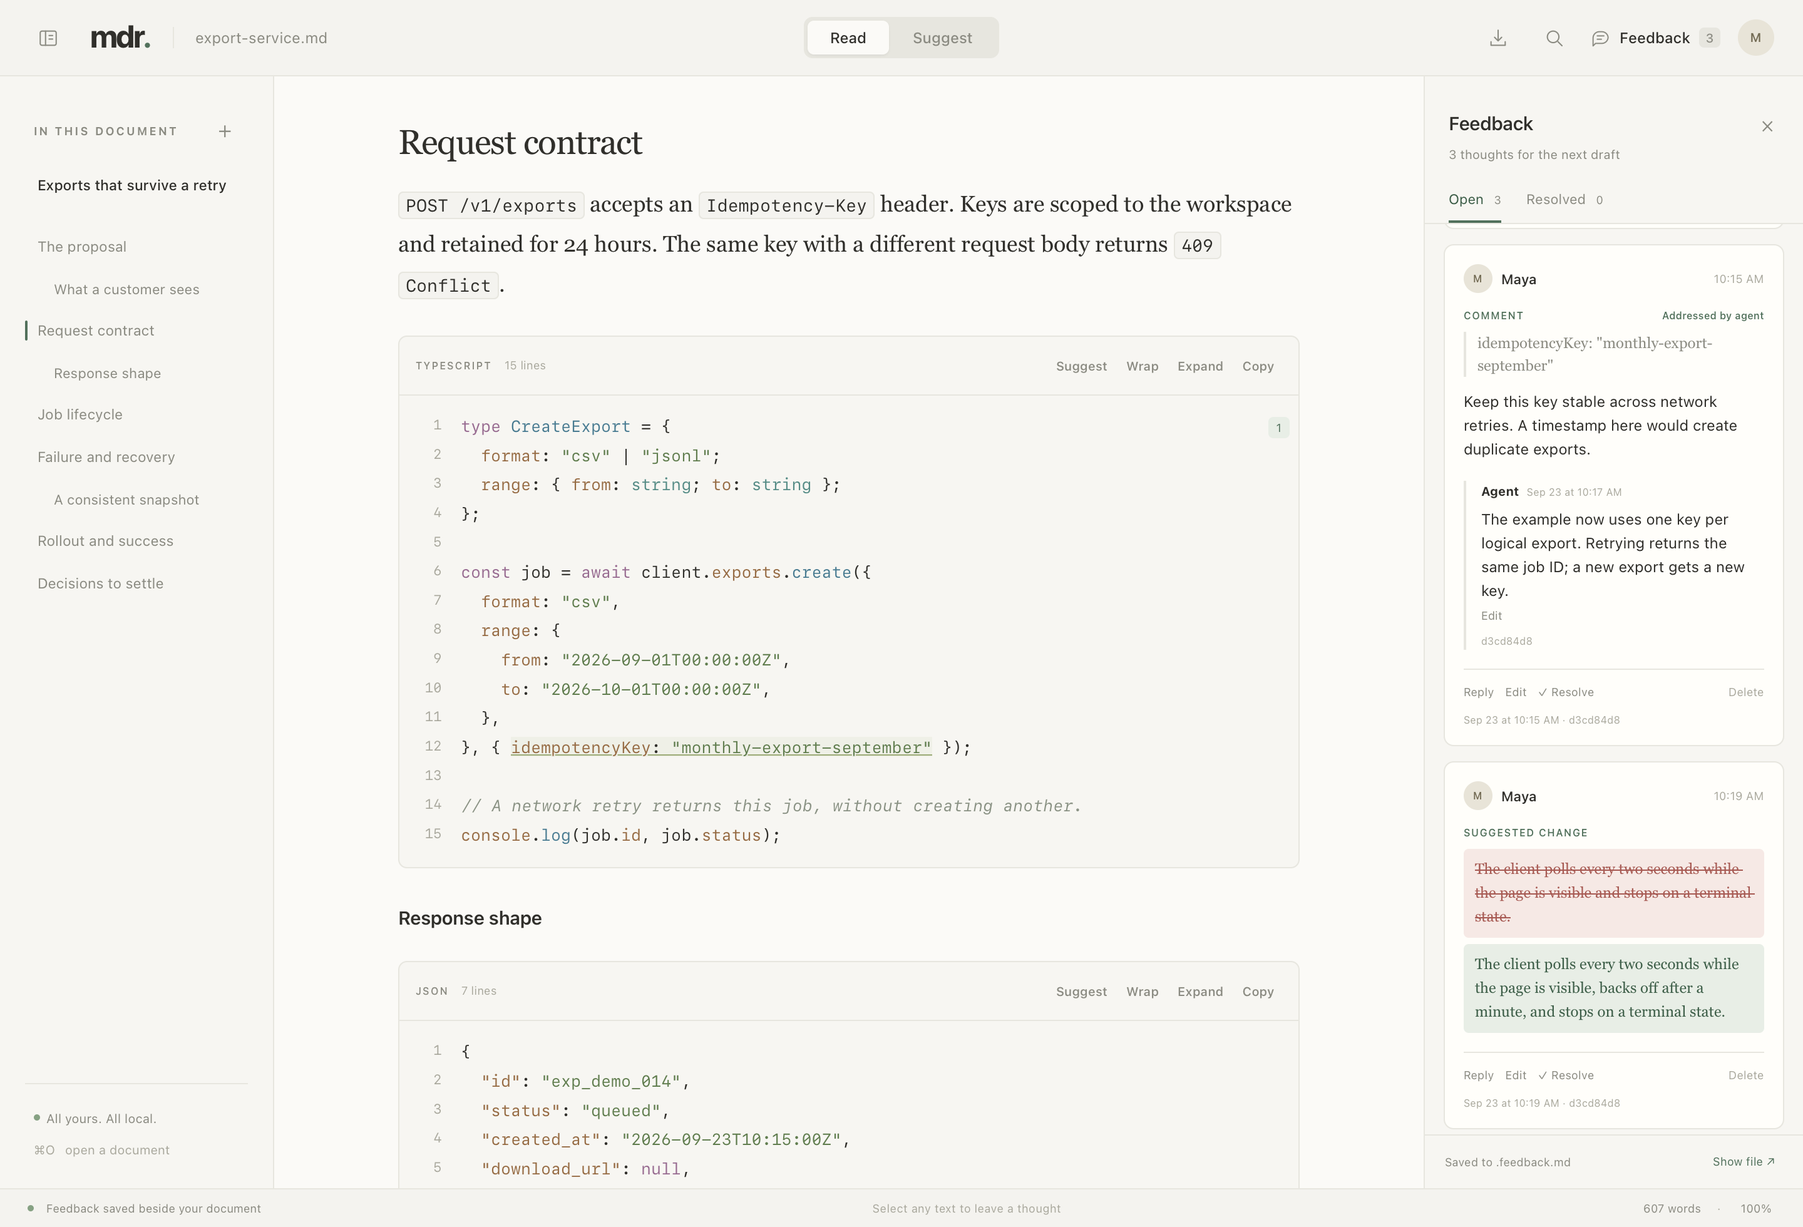
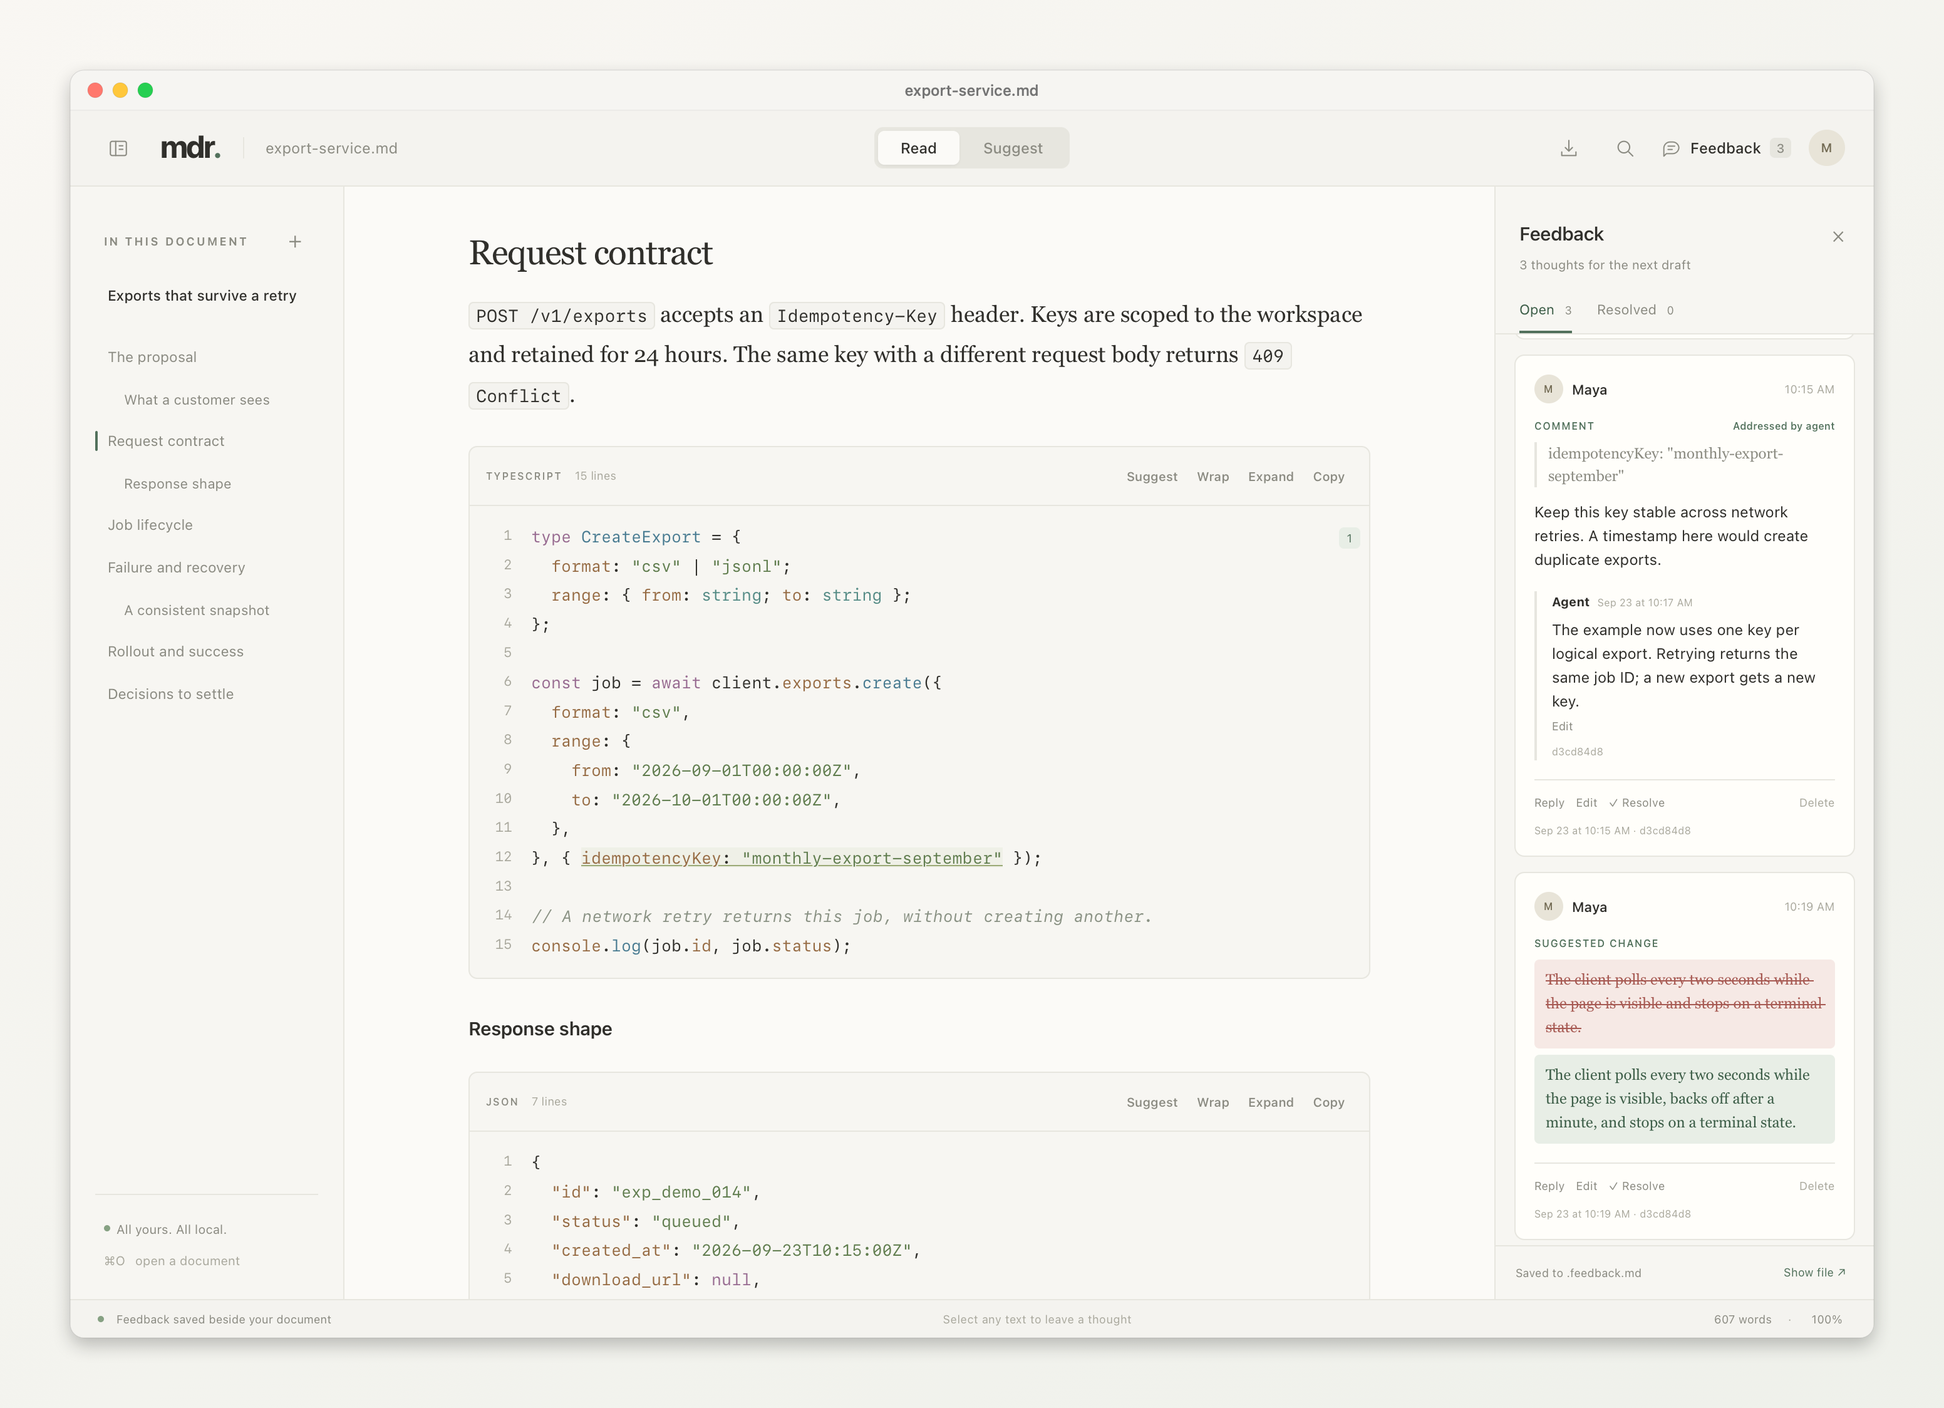
Show document dates and give the demo a Mac window presentation

diff --git a/scripts/frame-screenshot.swift b/scripts/frame-screenshot.swift
@@ -1,0 +1,50 @@
+import AppKit
+
+// Frame an actual native-reader capture for the README without capturing a desktop.
+guard CommandLine.arguments.count == 4,
+      let image = NSImage(contentsOfFile: CommandLine.arguments[1]) else {
+    fatalError("Usage: frame-screenshot.swift INPUT.png OUTPUT.png WINDOW_TITLE")
+}
+let contentWidth: CGFloat = 1440
+let contentHeight = contentWidth * image.size.height / image.size.width
+let inset: CGFloat = 56, titleHeight: CGFloat = 32, scale: CGFloat = 2
+let size = NSSize(width: contentWidth + inset * 2, height: contentHeight + titleHeight + inset * 2)
+let colorSpace = CGColorSpace(name: CGColorSpace.sRGB)!
+let context = CGContext(data: nil, width: Int(size.width * scale), height: Int(size.height * scale),
+    bitsPerComponent: 8, bytesPerRow: 0, space: colorSpace,
+    bitmapInfo: CGImageAlphaInfo.premultipliedLast.rawValue)!
+context.scaleBy(x: scale, y: scale)
+NSGraphicsContext.saveGraphicsState()
+NSGraphicsContext.current = NSGraphicsContext(cgContext: context, flipped: false)
+let canvas = NSRect(origin: .zero, size: size)
+NSGradient(starting: NSColor(calibratedRed: 0.92, green: 0.93, blue: 0.90, alpha: 1),
+           ending: NSColor(calibratedRed: 0.97, green: 0.96, blue: 0.94, alpha: 1))!.draw(in: canvas, angle: 120)
+let frame = NSRect(x: inset, y: inset, width: contentWidth, height: contentHeight + titleHeight)
+let outline = NSBezierPath(roundedRect: frame, xRadius: 11, yRadius: 11)
+NSGraphicsContext.saveGraphicsState()
+let shadow = NSShadow(); shadow.shadowColor = NSColor.black.withAlphaComponent(0.24)
+shadow.shadowOffset = NSSize(width: 0, height: -12); shadow.shadowBlurRadius = 30; shadow.set()
+NSColor(calibratedWhite: 0.97, alpha: 1).setFill(); outline.fill()
+NSGraphicsContext.restoreGraphicsState()
+NSGraphicsContext.saveGraphicsState()
+outline.addClip()
+NSColor(calibratedRed: 0.955, green: 0.953, blue: 0.937, alpha: 1).setFill(); outline.fill()
+image.draw(in: NSRect(x: inset, y: inset, width: contentWidth, height: contentHeight))
+let titleY = inset + contentHeight
+NSColor.black.withAlphaComponent(0.07).setStroke()
+let divider = NSBezierPath(); divider.move(to: NSPoint(x: inset, y: titleY)); divider.line(to: NSPoint(x: inset + contentWidth, y: titleY)); divider.lineWidth = 0.5; divider.stroke()
+let colors = [NSColor(calibratedRed: 1, green: 0.376, blue: 0.353, alpha: 1),
+              NSColor(calibratedRed: 1, green: 0.741, blue: 0.18, alpha: 1),
+              NSColor(calibratedRed: 0.157, green: 0.788, blue: 0.251, alpha: 1)]
+for (index, color) in colors.enumerated() {
+    let button = NSBezierPath(ovalIn: NSRect(x: inset + 14 + CGFloat(index) * 20, y: titleY + 10, width: 12, height: 12))
+    color.setFill(); button.fill(); NSColor.black.withAlphaComponent(0.10).setStroke(); button.lineWidth = 0.5; button.stroke()
+}
+let title = NSAttributedString(string: CommandLine.arguments[3], attributes: [.font: NSFont.systemFont(ofSize: 12, weight: .medium), .foregroundColor: NSColor(calibratedWhite: 0.38, alpha: 1)])
+title.draw(at: NSPoint(x: inset + (contentWidth - title.size().width) / 2, y: titleY + (titleHeight - title.size().height) / 2))
+NSGraphicsContext.restoreGraphicsState()
+NSColor.black.withAlphaComponent(0.12).setStroke(); outline.lineWidth = 0.5; outline.stroke()
+NSGraphicsContext.restoreGraphicsState()
+let output = NSBitmapImageRep(cgImage: context.makeImage()!)
+output.size = size
+try output.representation(using: .png, properties: [:])!.write(to: URL(fileURLWithPath: CommandLine.arguments[2]))

diff --git a/Sources/MDRApp/Resources/Web/index.html b/Sources/MDRApp/Resources/Web/index.html
@@ -17,7 +17,7 @@
   <div id="find-bar" class="find-bar" hidden><span id="find-icon"></span><input id="find-input" placeholder="Find in document…" aria-label="Find in document"><span id="find-count"></span><button id="find-prev" title="Previous match">↑</button><button id="find-next" title="Next match">↓</button><button id="find-close" aria-label="Close find">×</button></div>
   <main class="workspace">
     <aside class="outline"><div class="outline-heading">IN THIS DOCUMENT<button id="open-small" title="Open a file" aria-label="Open a file">+</button></div><nav id="toc" aria-label="Table of contents"></nav><div class="outline-bottom"><span class="status-dot"></span><span>All yours. All local.</span><div class="outline-key">⌘O <span>open a document</span></div></div></aside>
-    <section class="reading-pane" aria-label="Document"><div id="scroll-area" tabindex="-1"><div class="document-wrap"><div class="document-eyebrow"><span id="document-kind">MARKDOWN DOCUMENT</span><span class="eyebrow-line"></span><span id="reading-time"></span></div><article id="document" class="markdown"></article><div class="document-end"><span></span><span class="end-mark">m.</span><span></span></div><div id="welcome-cta" hidden><button id="welcome-open" class="primary">Open a Markdown file <kbd>⌘O</kbd></button></div></div></div><div id="suggest-hint" hidden>Click a paragraph to suggest a change. <span>Your original stays untouched.</span></div></section>
+    <section class="reading-pane" aria-label="Document"><div id="scroll-area" tabindex="-1"><div class="document-wrap"><div class="document-eyebrow"><span id="document-kind">MARKDOWN DOCUMENT</span><span class="eyebrow-line"></span><span id="reading-time"></span></div><div id="document-dates" class="document-dates" aria-label="Document dates" hidden><span>Created <time id="document-created"></time></span><span>Updated <time id="document-updated"></time></span></div><article id="document" class="markdown"></article><div class="document-end"><span></span><span class="end-mark">m.</span><span></span></div><div id="welcome-cta" hidden><button id="welcome-open" class="primary">Open a Markdown file <kbd>⌘O</kbd></button></div></div></div><div id="suggest-hint" hidden>Click a paragraph to suggest a change. <span>Your original stays untouched.</span></div></section>
     <aside id="minimap" class="minimap" aria-label="Document minimap"><div class="minimap-label">OVERVIEW</div><div id="minimap-track"><canvas id="minimap-canvas"></canvas><div id="minimap-viewport"></div></div><span id="progress-number">0%</span></aside>
     <aside id="feedback-panel" class="feedback-panel" hidden><div class="panel-heading"><div><h2>Feedback</h2><span id="panel-subtitle">A conversation in the margins</span></div><button id="feedback-close" class="icon-button" aria-label="Close feedback">×</button></div><div class="feedback-filters"><button id="filter-open" class="active">Open <span>0</span></button><button id="filter-resolved">Resolved <span>0</span></button></div><div id="feedback-list"></div><div class="feedback-footer"><span id="save-status">Your source stays untouched</span><button id="reveal-file">Show file ↗</button></div></aside>
   </main>

diff --git a/Sources/MDRApp/NativeSmoke.swift b/Sources/MDRApp/NativeSmoke.swift
@@ -19,6 +19,9 @@ import MDRCore
             try await wait(reader, "document.querySelector('#document h1')?.textContent === 'Native integration'")
             try await wait(reader, "!!document.querySelector('.mermaid svg')")
             passed.append("Native WebKit loads the reader and offline Mermaid")
+            let originalDates = try SourceSnapshot.read(sourceURL)
+            guard let createdAt = originalDates.createdAt else { throw Failure("Missing file creation date") }
+            try await wait(reader, "!document.getElementById('document-dates').hidden && document.getElementById('document-created').dateTime === \(try ReviewFile.json(createdAt, pretty: false)) && document.getElementById('document-updated').dateTime === \(try ReviewFile.json(originalDates.revision.modifiedAt, pretty: false))")
 
             try await selectComment(reader, quote: "calm and fast", body: "Keep the reading experience quiet.")
             _ = try await reader.webView.evaluateJavaScript("document.getElementById('save-comment').click()")
@@ -50,6 +53,10 @@ import MDRCore
             review = try ReviewFile.decode(Data(contentsOf: ReviewFile.url(for: sourceURL)))
             guard review.source == next, review.feedback.allSatisfy({ $0.state == .attached }), review.feedback.last?.createdAgainst.sha256 == sha256(original) else { throw Failure("Draft provenance or rebasing failed") }
             passed.append("In-place source changes preserve drafts and rebase while retaining original provenance")
+            let updatedDates = try SourceSnapshot.read(sourceURL)
+            guard updatedDates.createdAt == originalDates.createdAt, updatedDates.revision.modifiedAt != originalDates.revision.modifiedAt else { throw Failure("File dates do not describe the in-place edit") }
+            try await wait(reader, "document.getElementById('document-updated').dateTime === \(try ReviewFile.json(updatedDates.revision.modifiedAt, pretty: false))")
+            passed.append("Document creation and update times come from disk and refresh after source edits")
 
             let rewritten = next.replacingOccurrences(of: "calm and fast", with: "clear and focused")
             try Data(rewritten.utf8).write(to: sourceURL, options: .atomic)

diff --git a/Sources/MDRApp/main.swift b/Sources/MDRApp/main.swift
@@ -291,6 +291,7 @@ final class ReaderWindow: NSObject, NSWindowDelegate, WKScriptMessageHandler, WK
             let bytes = FileManager.default.fileExists(atPath: feedbackURL.path) ? try Data(contentsOf: feedbackURL) : nil
             var nextHash = bytes.map { sha256($0) }
             let external = nextHash != diskHash
+            let metadataChanged = latest.createdAt != snapshot.createdAt
             var next = external ? (try bytes.map { try ReviewFile.decode($0) } ?? Review(sourcePath: url.path, snapshot: latest)) : review
             try validateSource(next, url: url, snapshot: latest)
             let changed = latest.revision != snapshot.revision || next.revision.sha256 != latest.revision.sha256
@@ -306,7 +307,7 @@ final class ReaderWindow: NSObject, NSWindowDelegate, WKScriptMessageHandler, WK
             } else if external { notice = "Feedback updated from disk." }
             next.sourcePath = url.path
             review = next; diskHash = nextHash; snapshot = latest; snapshots[latest.revision.sha256] = latest
-            if changed || external { sendState() }
+            if changed || external || metadataChanged { sendState() }
             lastWarning = nil
         } catch {
             let message = error.localizedDescription
@@ -521,6 +522,7 @@ final class ReaderWindow: NSObject, NSWindowDelegate, WKScriptMessageHandler, WK
                 "feedbackPath": sourceURL.map { ReviewFile.url(for: $0).path } ?? "", "author": reviewerName,
                 "hasSidecar": diskHash != nil, "isWelcome": sourceURL == nil, "notice": notice ?? "",
                 "theme": UserDefaults.standard.string(forKey: "theme") ?? "paper",
+                "documentCreatedAt": snapshot.createdAt ?? "",
                 "fontSize": UserDefaults.standard.object(forKey: "fontSize") as? Int ?? 18]
             call("window.mdr.receive", value: value)
             notice = nil

diff --git a/Sources/MDRApp/NativeDemo.swift b/Sources/MDRApp/NativeDemo.swift
@@ -14,6 +14,9 @@ import MDRCore
             try FileManager.default.createDirectory(at: output, withIntermediateDirectories: true)
             let source = root.appendingPathComponent("export-service.md")
             try FileManager.default.copyItem(at: project.appendingPathComponent("examples/export-service.md"), to: source)
+            let formatter = ISO8601DateFormatter()
+            try FileManager.default.setAttributes([.creationDate: formatter.date(from: "2026-09-22T16:00:00Z")!,
+                .modificationDate: formatter.date(from: "2026-09-23T17:18:00Z")!], ofItemAtPath: source.path)
             let snapshot = try SourceSnapshot.read(source)
             var review = Review(sourcePath: source.path, snapshot: snapshot)
             func note(_ quote: String, _ body: String, reply: String) throws -> Feedback {
@@ -51,7 +54,8 @@ import MDRCore
             let items = try JSONSerialization.jsonObject(with: JSONEncoder().encode(review.feedback))
             reader.call("window.mdr.receive", value: ["source": snapshot.text, "revision": revision, "feedback": items,
                 "fileName": "export-service.md", "filePath": "/demo/export-service.md", "feedbackPath": "/demo/export-service.feedback.md",
-                "author": "Maya", "hasSidecar": true, "isWelcome": false, "theme": "paper", "fontSize": 18])
+                "author": "Maya", "hasSidecar": true, "isWelcome": false, "theme": "paper", "fontSize": 18,
+                "documentCreatedAt": "2026-09-22T16:00:00.000Z"])
             try await NativeSmoke.wait(reader, "document.getElementById('settings-toggle').textContent === 'M'")
             _ = try await reader.webView.evaluateJavaScript("window.mdr.command('feedback');document.getElementById('scroll-area').scrollTop=0")
             try await NativeSmoke.wait(reader, "!document.getElementById('feedback-panel').hidden")

diff --git a/Sources/MDRCore/Review.swift b/Sources/MDRCore/Review.swift
@@ -41,8 +41,10 @@ public struct SourceRevision: Codable, Equatable, Sendable {
 public struct SourceSnapshot: Equatable, Sendable {
     public var text: String
     public var revision: SourceRevision
-    public init(text: String, modifiedAt: String = ReviewClock.now()) {
+    public var createdAt: String?
+    public init(text: String, modifiedAt: String = ReviewClock.now(), createdAt: String? = nil) {
         self.text = text
+        self.createdAt = createdAt
         self.revision = SourceRevision(sha256: sha256(text), modifiedAt: modifiedAt, byteLength: text.utf8.count)
     }
     public static func read(_ url: URL) throws -> SourceSnapshot {
@@ -58,7 +60,8 @@ public struct SourceSnapshot: Equatable, Sendable {
             if (before[.modificationDate] as? Date) == (after[.modificationDate] as? Date),
                (before[.size] as? NSNumber) == (after[.size] as? NSNumber),
                (before[.systemFileNumber] as? NSNumber) == (after[.systemFileNumber] as? NSNumber) {
-                return SourceSnapshot(text: text, modifiedAt: ReviewClock.string(after[.modificationDate] as? Date ?? Date()))
+                return SourceSnapshot(text: text, modifiedAt: ReviewClock.string(after[.modificationDate] as? Date ?? Date()),
+                                      createdAt: (after[.creationDate] as? Date).map(ReviewClock.string))
             }
         }
         throw MDRError.invalidDocument("The document is still being written. Try opening it again in a moment.")

diff --git a/Sources/MDRApp/Resources/Web/reader.css b/Sources/MDRApp/Resources/Web/reader.css
@@ -91,3 +91,5 @@
 .autosave-status{font-size:9px;color:var(--muted)}.note-status{float:right;font-size:8px;letter-spacing:0;text-transform:none;color:var(--muted)}.note-status.addressed{color:var(--accent)}.thread-reply{border-left:2px solid var(--line);margin:16px 0 8px;padding:2px 0 2px 12px}.reply-meta{display:flex;flex-wrap:wrap;gap:6px;align-items:baseline;font-size:10px}.reply-meta time{font-size:8px;color:var(--subtle)}.reply-body{font-size:12px;line-height:1.65;white-space:pre-wrap;overflow-wrap:anywhere;margin-top:7px}.composer-actions{flex-wrap:wrap}
 
 .reply-edit{font-size:9px;color:var(--muted);padding:5px 0 0;display:block}.edit-label{font-size:9px;color:var(--subtle);margin-top:6px}.card-bottom{flex-wrap:wrap}
+
+.document-dates{display:flex;flex-wrap:wrap;gap:6px 18px;margin:-13px 0 27px;color:var(--muted);font-size:10px;line-height:1.6}.document-dates>span{white-space:nowrap}.document-dates time{margin-left:4px;font-variant-numeric:tabular-nums}@media print{.document-dates{display:none!important}}

diff --git a/README.md b/README.md
@@ -12,9 +12,9 @@
 
 ![A fictional API proposal in mdr, with highlighted feedback and an agent replying in the review thread](docs/images/review.png)
 
-Agents are good at producing documents. Reading them carefully still matters.
+Agents are good at producing documents. Reading them carefully still matters. So does putting the right comment on the exact passage that needs it.
 
-mdr gives specs, plans, and technical proposals a quiet place to be read. Open a Markdown file, follow the outline, study the code, and leave feedback exactly where the thought occurs. Your agent gets a structured review file and can reply in the same conversation while you keep reading.
+mdr gives specs, plans, and technical proposals a quiet place to be read. Open a Markdown file, follow the outline, and study the code. Then anchor a question to a sentence or suggest a better version of a block. Your agent gets the feedback together with its exact context, and can reply in the same conversation while you keep reading.
 
 ```sh
 mdr spec.md
@@ -22,7 +22,7 @@ mdr spec.md
 
 ## Made for the part where you think
 
-- **Reading comes first.** Comfortable typography, a heading outline, a minimap, search, and paper, light, dark, or system appearance.
+- **Reading comes first.** Comfortable typography, a heading outline, a minimap, search, and paper, light, dark, or system appearance. File creation and update times sit quietly above the heading.
 - **Code gets room.** Syntax highlighting, line numbers, copy, wrapping, expand controls, and precise comments or suggestions inside code blocks.
 - **Diagrams belong in the doc.** Mermaid renders locally, alongside tables, lists, links, and prose.
 - **Feedback stays in context.** Highlight to comment. Edit a passage to suggest a replacement. Reply, correct, and edit in threads.

diff --git a/CONTRIBUTING.md b/CONTRIBUTING.md
@@ -48,7 +48,7 @@ The README uses `examples/export-service.md`, a fictional API proposal. To regen
 bash scripts/capture-demo.sh
 ```
 
-The demo harness creates its own source and feedback under `work/demo`, uses fictional reviewer identities, and writes cropped reader snapshots into `docs/images`. Never use an actual user's review file, recent-document list, desktop, or terminal history in published images.
+The demo harness creates its own source and feedback under `work/demo`, uses fictional reviewer identities, and captures the actual native reader. The framing script adds a Mac window surround and shadow for the README, without capturing a desktop. Images go into `docs/images`. Never use an actual user's review file, recent-document list, desktop, or terminal history in published images.
 
 ## Release
 

diff --git a/docs/RELEASE-NOTES.md b/docs/RELEASE-NOTES.md
@@ -1,5 +1,10 @@
 A quiet Mac reader for the specs you write with agents.
 
+New in 0.3.1: file creation and update times above the document heading, refreshed
+as the source changes, plus clearer review messaging and Mac-framed demo images.
+Hover a timestamp to see the full date and timezone. Creation uses the local
+file's creation date; copies and replacements can have a new one.
+
 - Rendered Markdown with an outline, minimap, offline Mermaid, and code highlighting.
 - Comments, editable threads, and replacement suggestions that leave the source untouched.
 - Autosaved review files with authors, timestamps, source hashes, and live agent replies.
